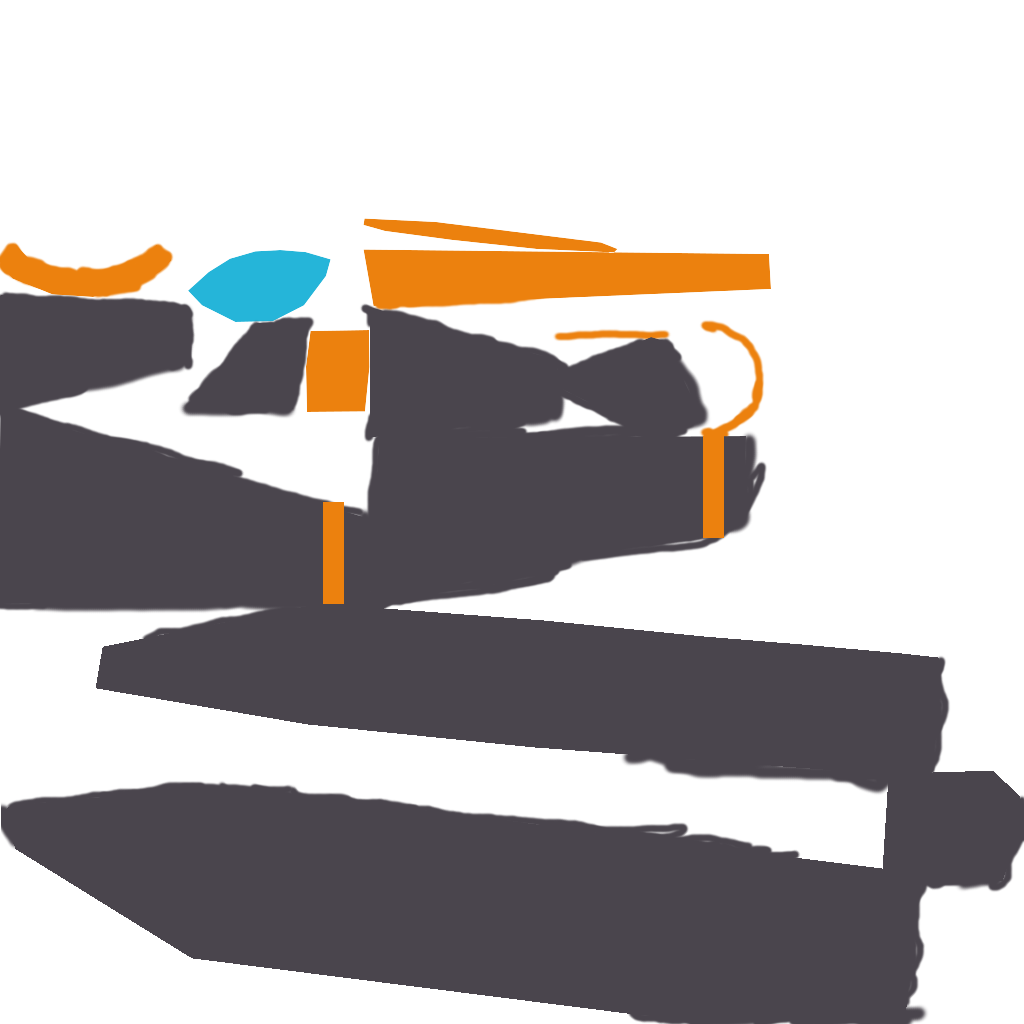
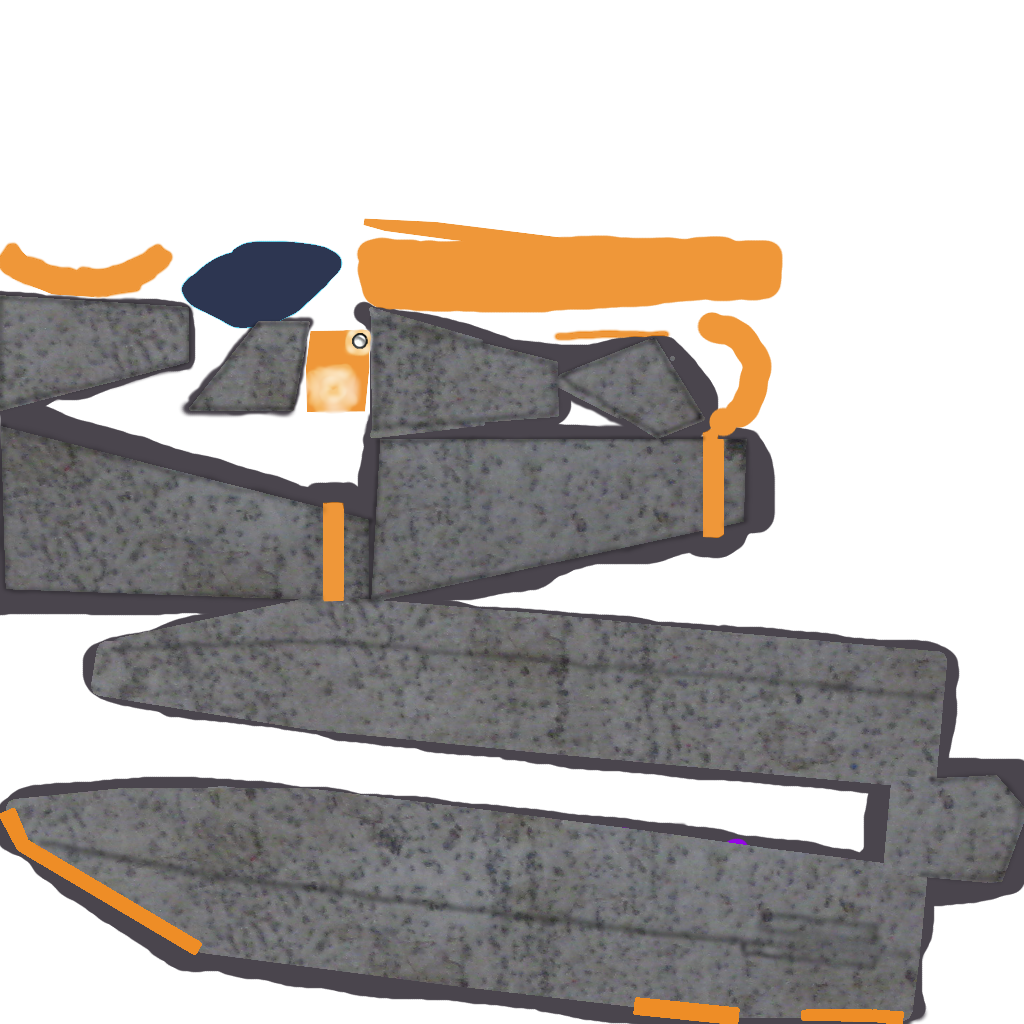
* Improve texture for Submarine 2. Main work done by Miriam Meernixe
Also: Darken background

diff --git a/web/js/game/scene.js b/web/js/game/scene.js
@@ -20,13 +20,12 @@ define(["jquery", "three"], function ($, Three) {
         scene = new Three.Scene();
         scene.add( new THREE.AmbientLight( 0xcccccc ) );
 
-    // scene.add( new THREE.AxisHelper( 100 ) );
         camera = new THREE.PerspectiveCamera(75, window.innerWidth / window.innerHeight, 0.1, 1000);
 
 
         renderer = new THREE.WebGLRenderer();
 
-        renderer.setClearColor( 0xbfd1e5 );
+        renderer.setClearColor( 0x263a48 );
         loader = new THREE.JSONLoader();
         submarine = null;
         textureLoader = new THREE.TextureLoader();
@@ -46,6 +45,7 @@ define(["jquery", "three"], function ($, Three) {
                     submarine.scale.set( 10, 10, 10 );
 
                     scene.add(submarine);
+
                     initialized = true;
                 });
             }
@@ -54,7 +54,7 @@ define(["jquery", "three"], function ($, Three) {
 
         gameDiv.append(renderer.domElement);
 
-        camera.position.z = 100;
+        camera.position.z = 90;
         camera.position.y = 10;
 
         render();
@@ -68,14 +68,22 @@ define(["jquery", "three"], function ($, Three) {
         renderer.setSize(window.innerWidth, window.innerHeight);
     });
 
+    var lastframe = undefined;
 
-    var render = function () {
+    var render = function (time) {
+        if(lastframe === undefined) {
+            lastframe = time;
+        }
+        var delta = time - lastframe;
+
         requestAnimationFrame(render);
         if(initialized === false) {
             return;
         }
-        submarine.rotation.y += 0.001;
+        submarine.rotation.x += 0.25 * Math.PI * (delta / 1000); //45° per second
+
         renderer.render(scene, camera);
+        lastframe = time;
     };
 
     return {
